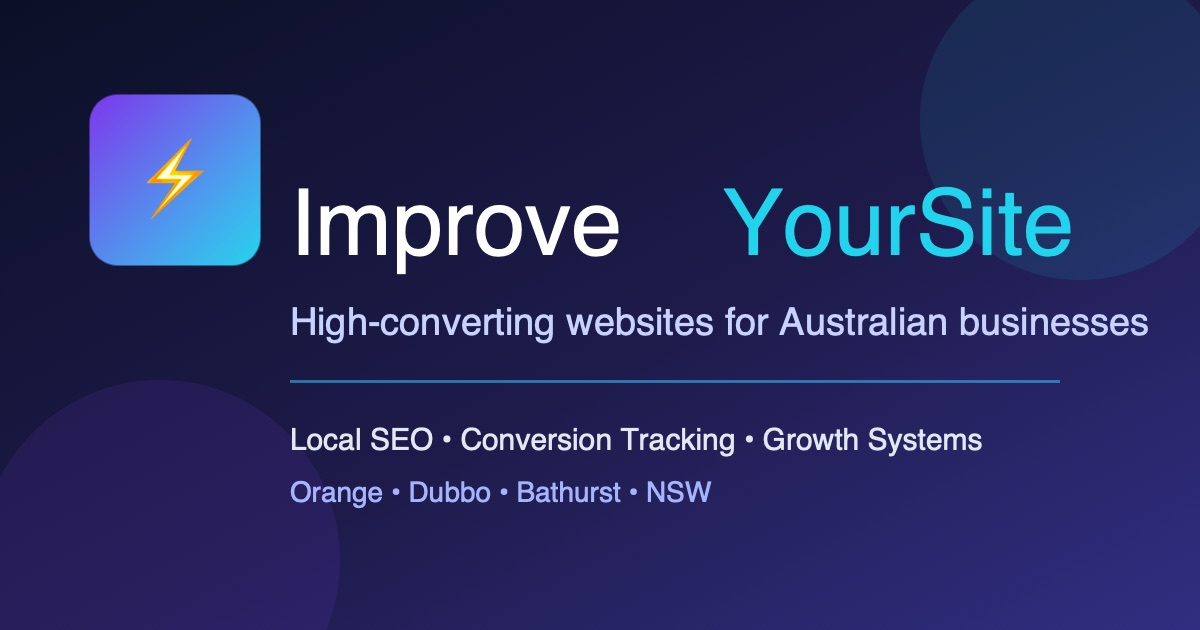
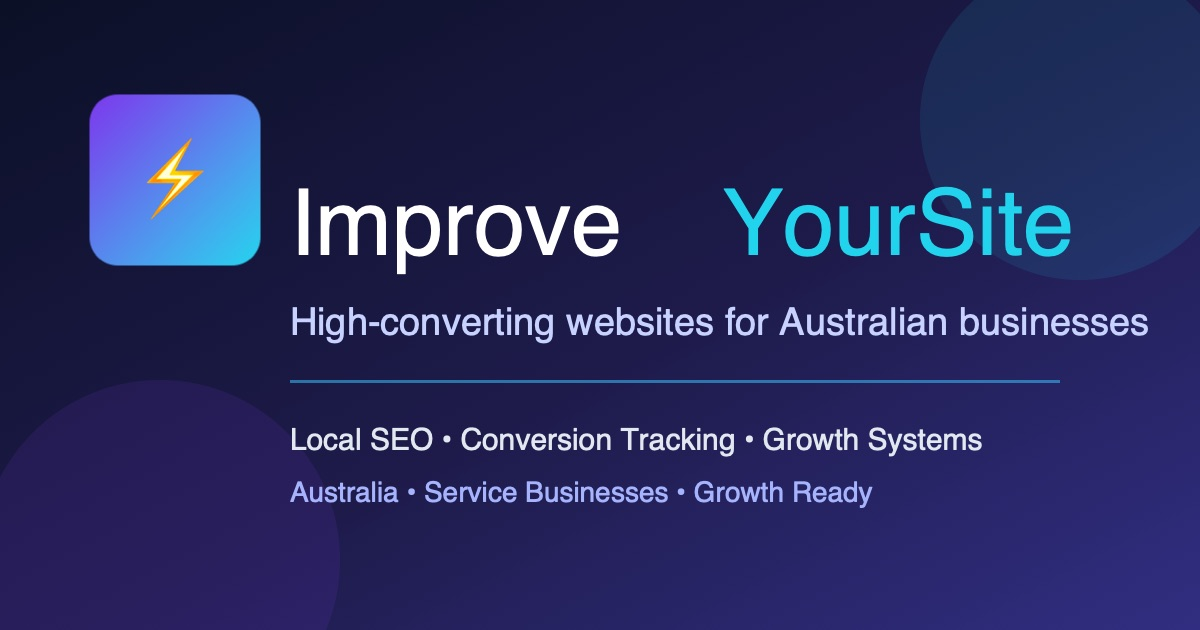
chore: keep area targeting ad-only, remove public location mentions, and update thank-you CTA copy

Changed region(s): [[0.2467, 0.754, 0.74, 0.8143]]

diff --git a/deploy/improveyoursite-singlefile.html b/deploy/improveyoursite-singlefile.html
@@ -320,9 +320,6 @@ section { padding: 6rem 0; }
 .roi__hint { font-size: 0.82rem; color: #5f5f7c; margin-top: -0.2rem; }
 
 /* ===== PREMIUM BLUEPRINT ===== */
-.local-campaign { background:#fff; }
-.local-campaign .blueprint-card p { margin-bottom:.6rem; }
-
 .premium-blueprint { background: #f8f7ff; }
 .premium-blueprint__grid { display: grid; grid-template-columns: repeat(3, minmax(0, 1fr)); gap: 1rem; }
 .blueprint-card {
@@ -781,7 +778,7 @@ height="0" width="0" style="display:none;visibility:hidden"></iframe></noscript>
             <li>✅ Everything in redesign package</li>
             <li>✅ Business content production</li>
             <li>✅ Automated blog page system for ongoing SEO</li>
-            <li>✅ Local ranking content rollout (e.g. Orange, Dubbo, Bathurst)</li>
+            <li>✅ Local ranking content rollout tailored to your target service areas</li>
             <li>✅ Custom graphic design + logo assets</li>
             <li>✅ On-site team photo shoot of business</li>
             <li>✅ Conversion copywriting + offer pages</li>
@@ -814,7 +811,7 @@ height="0" width="0" style="display:none;visibility:hidden"></iframe></noscript>
           <ul>
             <li>✅ Blog automation system with editorial templates</li>
             <li>✅ Service + suburb content clusters</li>
-            <li>✅ Initial local focus: Orange NSW, Dubbo, Bathurst</li>
+            <li>✅ Local service-area rollout based on campaign priorities</li>
           </ul>
         </article>
         <article class="blueprint-card">
@@ -831,35 +828,6 @@ height="0" width="0" style="display:none;visibility:hidden"></iframe></noscript>
   </section>
 
 
-
-  <!-- Local Campaign Rollout -->
-  <section class="local-campaign" id="local-campaign">
-    <div class="container">
-      <h2 class="section__title">Local Ad Landing Pack (NSW)</h2>
-      <p class="section__subtitle">Ready-to-run location pages for upcoming campaigns in Orange, Dubbo, and Bathurst.</p>
-      <div class="premium-blueprint__grid">
-        <article class="blueprint-card">
-          <span class="blueprint-card__tag">Orange NSW</span>
-          <h3>Local Growth Landing Page</h3>
-          <p>Conversion-led page with tracking-friendly lead capture for Orange campaigns.</p>
-          <a class="btn btn--ghost" href="locations/orange-nsw-web-design.html">Open Orange Page</a>
-        </article>
-        <article class="blueprint-card">
-          <span class="blueprint-card__tag">Dubbo NSW</span>
-          <h3>Local Growth Landing Page</h3>
-          <p>Built for service-business intent with local SEO and offer positioning baked in.</p>
-          <a class="btn btn--ghost" href="locations/dubbo-nsw-web-design.html">Open Dubbo Page</a>
-        </article>
-        <article class="blueprint-card">
-          <span class="blueprint-card__tag">Bathurst NSW</span>
-          <h3>Local Growth Landing Page</h3>
-          <p>Designed for paid traffic conversion and long-term organic support.</p>
-          <a class="btn btn--ghost" href="locations/bathurst-nsw-web-design.html">Open Bathurst Page</a>
-        </article>
-      </div>
-      <p style="margin-top:1rem;"><a class="btn btn--ghost" href="blog/index.html">View Local SEO Blog Set</a></p>
-    </div>
-  </section>
 
   <!-- FAQ -->
   <section class="faq" id="faq">

diff --git a/index.html b/index.html
@@ -343,7 +343,7 @@ height="0" width="0" style="display:none;visibility:hidden"></iframe></noscript>
             <li>✅ Everything in redesign package</li>
             <li>✅ Business content production</li>
             <li>✅ Automated blog page system for ongoing SEO</li>
-            <li>✅ Local ranking content rollout (e.g. Orange, Dubbo, Bathurst)</li>
+            <li>✅ Local ranking content rollout tailored to your target service areas</li>
             <li>✅ Custom graphic design + logo assets</li>
             <li>✅ On-site team photo shoot of business</li>
             <li>✅ Conversion copywriting + offer pages</li>
@@ -376,7 +376,7 @@ height="0" width="0" style="display:none;visibility:hidden"></iframe></noscript>
           <ul>
             <li>✅ Blog automation system with editorial templates</li>
             <li>✅ Service + suburb content clusters</li>
-            <li>✅ Initial local focus: Orange NSW, Dubbo, Bathurst</li>
+            <li>✅ Local service-area rollout based on campaign priorities</li>
           </ul>
         </article>
         <article class="blueprint-card">
@@ -393,35 +393,6 @@ height="0" width="0" style="display:none;visibility:hidden"></iframe></noscript>
   </section>
 
 
-
-  <!-- Local Campaign Rollout -->
-  <section class="local-campaign" id="local-campaign">
-    <div class="container">
-      <h2 class="section__title">Local Ad Landing Pack (NSW)</h2>
-      <p class="section__subtitle">Ready-to-run location pages for upcoming campaigns in Orange, Dubbo, and Bathurst.</p>
-      <div class="premium-blueprint__grid">
-        <article class="blueprint-card">
-          <span class="blueprint-card__tag">Orange NSW</span>
-          <h3>Local Growth Landing Page</h3>
-          <p>Conversion-led page with tracking-friendly lead capture for Orange campaigns.</p>
-          <a class="btn btn--ghost" href="locations/orange-nsw-web-design.html">Open Orange Page</a>
-        </article>
-        <article class="blueprint-card">
-          <span class="blueprint-card__tag">Dubbo NSW</span>
-          <h3>Local Growth Landing Page</h3>
-          <p>Built for service-business intent with local SEO and offer positioning baked in.</p>
-          <a class="btn btn--ghost" href="locations/dubbo-nsw-web-design.html">Open Dubbo Page</a>
-        </article>
-        <article class="blueprint-card">
-          <span class="blueprint-card__tag">Bathurst NSW</span>
-          <h3>Local Growth Landing Page</h3>
-          <p>Designed for paid traffic conversion and long-term organic support.</p>
-          <a class="btn btn--ghost" href="locations/bathurst-nsw-web-design.html">Open Bathurst Page</a>
-        </article>
-      </div>
-      <p style="margin-top:1rem;"><a class="btn btn--ghost" href="blog/index.html">View Local SEO Blog Set</a></p>
-    </div>
-  </section>
 
   <!-- FAQ -->
   <section class="faq" id="faq">

diff --git a/thanks.html b/thanks.html
@@ -59,7 +59,7 @@ height="0" width="0" style="display:none;visibility:hidden"></iframe></noscript>
         <div class="thanks-actions">
           <a class="btn btn--primary" href="index.html#contact">Submit another request</a>
           <a class="btn btn--ghost" href="our-work.html">View our work</a>
-          <a class="btn btn--ghost" href="mailto:james@improveyoursite.com">Email James directly</a>
+          <a class="btn btn--ghost" href="mailto:james@improveyoursite.com">Email us Directly</a>
         </div>
       </article>
     </div>

diff --git a/blog/bathurst-nsw-conversion-checklist.html b/blog/bathurst-nsw-conversion-checklist.html
@@ -3,6 +3,7 @@
 <head>
   <meta charset="UTF-8">
   <meta name="viewport" content="width=device-width, initial-scale=1.0">
+  <meta name="robots" content="noindex, nofollow">
   <meta name="description" content="Bathurst NSW: Conversion Checklist Before You Run Ads — practical guidance from ImproveYourSite.">
   <title>Bathurst NSW: Conversion Checklist Before You Run Ads | ImproveYourSite</title>
   <link rel="stylesheet" href="../src/css/style.css">

diff --git a/blog/dubbo-nsw-local-seo-guide.html b/blog/dubbo-nsw-local-seo-guide.html
@@ -3,6 +3,7 @@
 <head>
   <meta charset="UTF-8">
   <meta name="viewport" content="width=device-width, initial-scale=1.0">
+  <meta name="robots" content="noindex, nofollow">
   <meta name="description" content="Dubbo NSW: Local SEO Setup for Service Businesses — practical guidance from ImproveYourSite.">
   <title>Dubbo NSW: Local SEO Setup for Service Businesses | ImproveYourSite</title>
   <link rel="stylesheet" href="../src/css/style.css">

diff --git a/blog/orange-nsw-website-mistakes.html b/blog/orange-nsw-website-mistakes.html
@@ -3,6 +3,7 @@
 <head>
   <meta charset="UTF-8">
   <meta name="viewport" content="width=device-width, initial-scale=1.0">
+  <meta name="robots" content="noindex, nofollow">
   <meta name="description" content="Orange NSW: 7 Website Mistakes Losing Local Leads — practical guidance from ImproveYourSite.">
   <title>Orange NSW: 7 Website Mistakes Losing Local Leads | ImproveYourSite</title>
   <link rel="stylesheet" href="../src/css/style.css">

diff --git a/src/css/style.css b/src/css/style.css
@@ -293,9 +293,6 @@ section { padding: 6rem 0; }
 .roi__hint { font-size: 0.82rem; color: #5f5f7c; margin-top: -0.2rem; }
 
 /* ===== PREMIUM BLUEPRINT ===== */
-.local-campaign { background:#fff; }
-.local-campaign .blueprint-card p { margin-bottom:.6rem; }
-
 .premium-blueprint { background: #f8f7ff; }
 .premium-blueprint__grid { display: grid; grid-template-columns: repeat(3, minmax(0, 1fr)); gap: 1rem; }
 .blueprint-card {

diff --git a/locations/bathurst-nsw-web-design.html b/locations/bathurst-nsw-web-design.html
@@ -3,6 +3,7 @@
 <head>
   <meta charset="UTF-8">
   <meta name="viewport" content="width=device-width, initial-scale=1.0">
+  <meta name="robots" content="noindex, nofollow">
   <meta name="description" content="Bathurst NSW high-converting website redesign and local SEO by ImproveYourSite.">
   <title>Bathurst NSW Website Redesign + SEO | ImproveYourSite</title>
   <link rel="stylesheet" href="../src/css/style.css">

diff --git a/locations/orange-nsw-web-design.html b/locations/orange-nsw-web-design.html
@@ -3,6 +3,7 @@
 <head>
   <meta charset="UTF-8">
   <meta name="viewport" content="width=device-width, initial-scale=1.0">
+  <meta name="robots" content="noindex, nofollow">
   <meta name="description" content="Orange NSW high-converting website redesign and local SEO by ImproveYourSite.">
   <title>Orange NSW Website Redesign + SEO | ImproveYourSite</title>
   <link rel="stylesheet" href="../src/css/style.css">

diff --git a/locations/dubbo-nsw-web-design.html b/locations/dubbo-nsw-web-design.html
@@ -3,6 +3,7 @@
 <head>
   <meta charset="UTF-8">
   <meta name="viewport" content="width=device-width, initial-scale=1.0">
+  <meta name="robots" content="noindex, nofollow">
   <meta name="description" content="Dubbo NSW high-converting website redesign and local SEO by ImproveYourSite.">
   <title>Dubbo NSW Website Redesign + SEO | ImproveYourSite</title>
   <link rel="stylesheet" href="../src/css/style.css">

diff --git a/blog/index.html b/blog/index.html
@@ -3,6 +3,7 @@
 <head>
   <meta charset="UTF-8">
   <meta name="viewport" content="width=device-width, initial-scale=1.0">
+  <meta name="robots" content="noindex, nofollow">
   <meta name="description" content="Local growth articles by ImproveYourSite.">
   <title>Local Growth Blog | ImproveYourSite</title>
   <link rel="stylesheet" href="../src/css/style.css">
